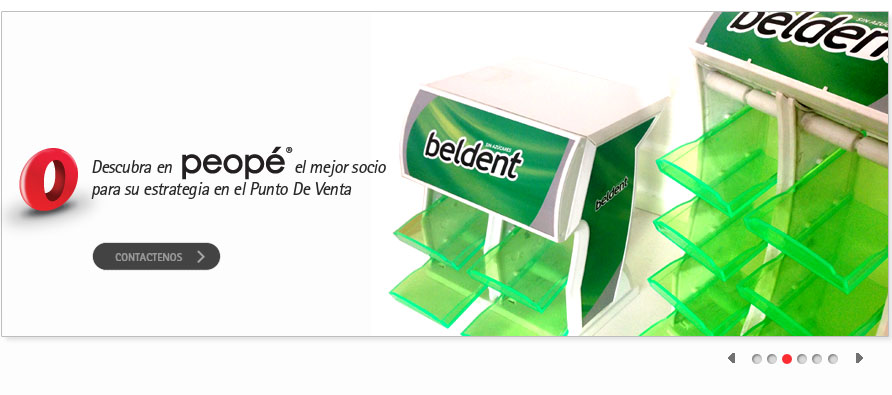
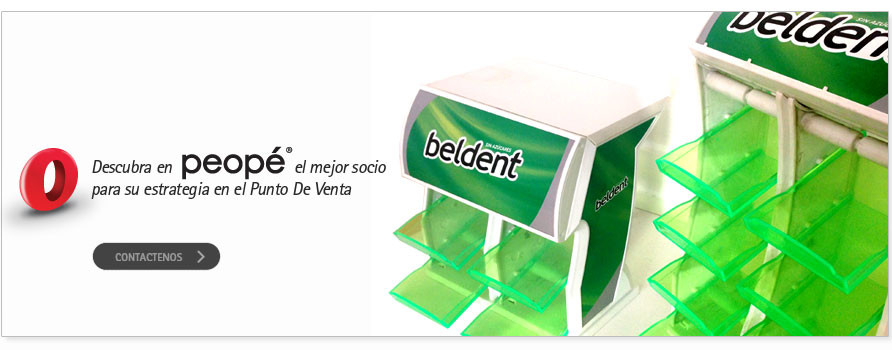
correcciones estilo galeria imagenes con slidesjs

diff --git a/style/style.css b/style/style.css
@@ -116,8 +116,11 @@ body {
 	position: relative;
 	z-index: 3;
 	padding: 0px;
-	width: 900px;
+	width: 100%;
 	margin: 0 auto;
+	float: none;
+	clear: both;
+	margin-top: 30px;
 }
 
 #submenuImg li {
@@ -391,6 +394,9 @@ textarea {
 	background-image: url(../images/fondoTopPrincipal.jpg);
 	background-color:#FFF;
 	background-repeat:repeat-x;
+	background-position: 0 -8px;
+	margin: 0px;
+	padding: 0px;
 }
 
 #pieHome {
@@ -436,3 +442,11 @@ textarea {
   display:none;
 }
 
+html {
+    margin: 0;
+    padding: 0;
+}
+
+.slidesjs-control {
+	z-index: 0;
+}

diff --git a/js/master.js b/js/master.js
@@ -1,7 +1,7 @@
 $(function() {
 	$("#slides").slidesjs({
 		width : 900,
-		height : 400,
+		height : 350,
 		navigation : false,
 		pagination : {
 			active : true,
